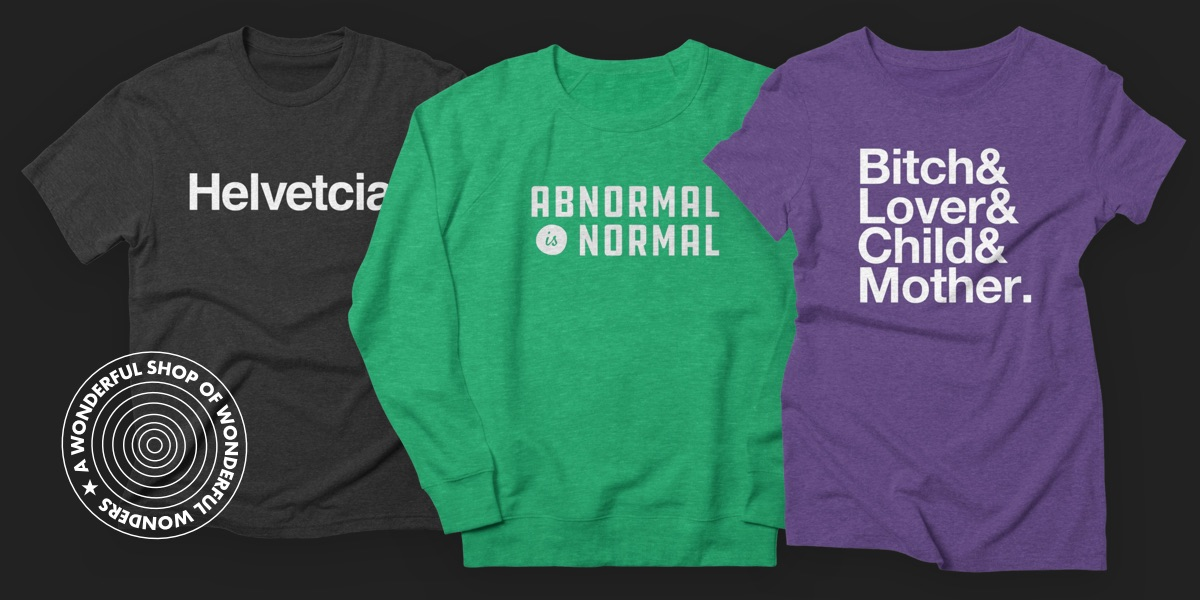
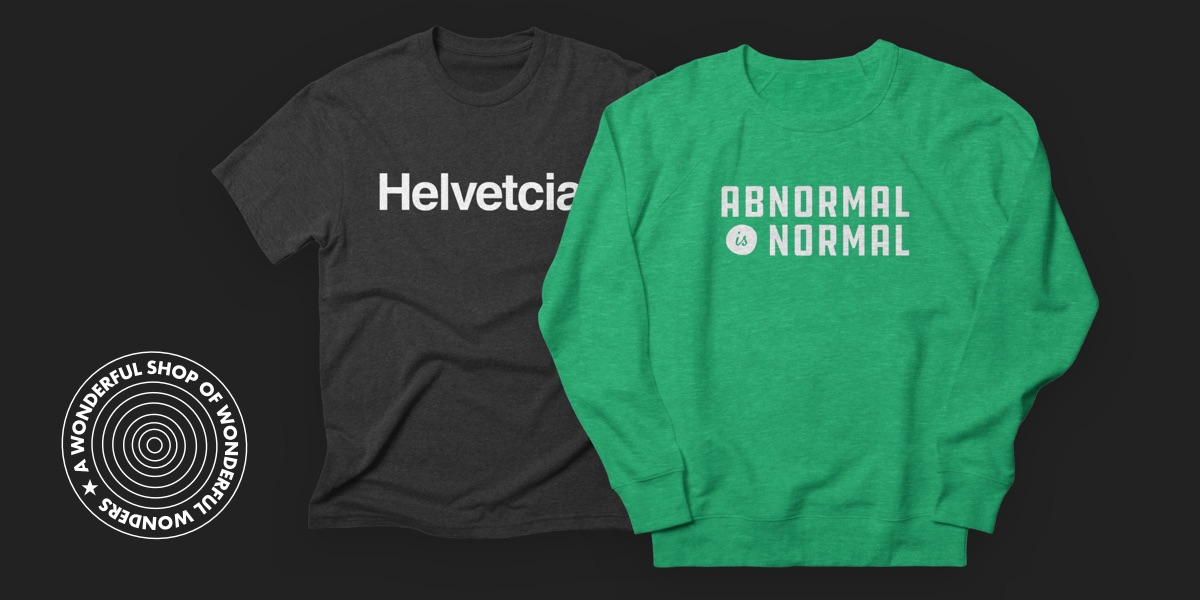
update image

diff --git a/_posts/2018-09-20-a-wonderful-shop.md b/_posts/2018-09-20-a-wonderful-shop.md
@@ -45,7 +45,15 @@ A few hours later and [the design was available for purchase][an].
 
 I just collect the money.
 
----
+<figure class="extra-wide">
+  <a href="http://awonderful.shop" title="Visit A Wonderful Shop of Wonderful Wonders">
+    <img 
+      src="{{ '/images/site/spacer.gif' | absolute_url }}"
+      data-echo="{{ '/images/uploads/wonderful-products.jpg' | absolute_url }}"
+      alt="Visit A Wonderful Shop of Wonderful Wonders"
+    >
+  </a>
+</figure>
 
 To celebrate the launch of the shop, I'm offering a promotional discount on all products on the store. The promotional period will end when I remember to log into Threadless to turn it off.
 
